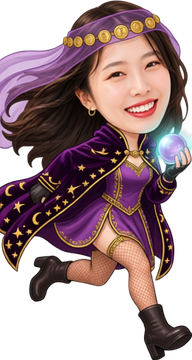
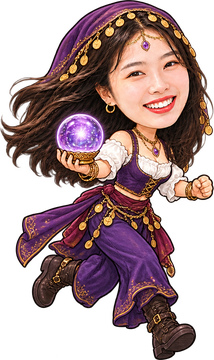
v0.7.21 점술가 캐릭터 그림을 새 원본(astrologer-2·3)으로

diff --git a/index.html b/index.html
@@ -1035,7 +1035,7 @@
   const elTitle = document.getElementById("overTitle");
   const coinNote = document.getElementById("coinNote");
 
-  const GAME_VERSION = "v0.7.20";   // 코드를 고칠 때마다 뒤 두 자리를 올린다
+  const GAME_VERSION = "v0.7.21";   // 코드를 고칠 때마다 뒤 두 자리를 올린다
   document.getElementById("ver").textContent = GAME_VERSION;
 
   const LS_NAME = "epjpddongpi_name";
@@ -1454,11 +1454,11 @@
   };
   /* 직업: 도박사 복장 (우주복 이전 구간에서만 입는다).
      head/cx/cy/adj 는 실측값 — 헬멧 대신 얼굴이 판정 기준이다. */
-  /* 점술가 — 도박사 그림에서 옷만 보랏빛 점술가 망토·베일·수정구로 바꿨다 (Ludo editImage).
-     머리 중심은 실루엣이 가장 두꺼운 자리, 아픈 그림은 베일이 두꺼워 얼굴 쪽으로 조금 올렸다. */
+  /* 점술가 — 원본 astrologer-2(달리기, 수정구)·astrologer-3(아픔, 타로 카드).
+     머리 중심은 실루엣이 가장 두꺼운 자리. 아픈 그림은 카드 쪽으로 끌려가서 얼굴 자리로 옮겼다. */
   const SPR_FORTUNE = {
-    right: { img: null, aspect: 0.5333, head: 0.425, cx: 0.526, cy: 0.303, adj: 0.6275 },
-    hurt:  { img: null, aspect: 0.4333, head: 0.400, cx: 0.481, cy: 0.335, adj: 0.6416 }
+    right: { img: null, aspect: 0.5944, head: 0.455, cx: 0.570, cy: 0.289, adj: 0.6711 },
+    hurt:  { img: null, aspect: 0.6611, head: 0.420, cx: 0.400, cy: 0.310, adj: 0.6737 }
   };
   const SPR_LEV = {
     right: { img: null, aspect: 0.606, head: 0.417, cx: 0.541, cy: 0.258, adj: 0.6157 },
